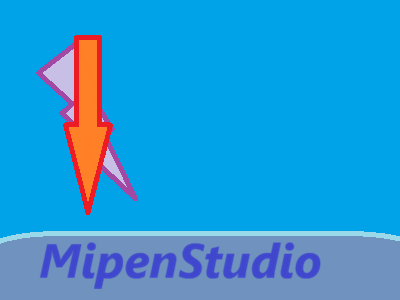
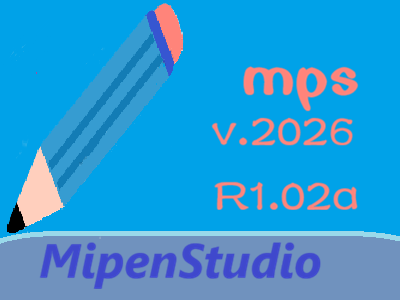
更新界面标题和固件版本，调整主循环次数，修改设备信息格式

Changed region(s): [[0.0, 0.0, 0.48, 0.78], [0.51, 0.21, 0.9, 0.51], [0.54, 0.6, 0.9, 0.72]]

diff --git a/main.py b/main.py
@@ -14,7 +14,7 @@ screen = pygame.display.set_mode((400, 300), pygame.NOFRAME)
 
 screen.blit(pygame.image.load(r'.\datas\mb.png'), (0, 0))
 # 主循环
-for i in range(10000):
+for i in range(15000):
     for event in pygame.event.get():
         if event.type == pygame.QUIT:
             running = False
@@ -52,7 +52,7 @@ def openFile():
 class XiaomiFirmwareEditor:
     def __init__(self, root):
         self.root = root
-        self.root.title("MipenStudio Bata 0.1")
+        self.root.title("MipenStudio v.2026R1.02a")
         self.root.geometry("1200x800")
         
         # 模拟固件数据 (1MB)
@@ -81,8 +81,7 @@ class XiaomiFirmwareEditor:
         self.a = random.choice(names)
         data[0:4] = self.a.encode('utf-8')
         
-        # 版本信息
-        data[16:32] = b'birelaod PowerWriter v2.3.1'
+        data[16:32] = b'RecoveryMode\'s boot v2.3.1'
         
         # 添加一些字符串
         strings = [
@@ -265,12 +264,10 @@ class XiaomiFirmwareEditor:
 型号: {self.a}
 序列号: PW-{random.randint(2020,2025)}-{random.randint(1000,8720)}
 固件版本: v0.0.1
-硬件版本: -无信息-
+硬件版本: {random.randint(2020,2025)}
 生产日期: 2025-06-15
 电池容量: {str(random.randint(9, 12)) + '0'}mAh
 连接协议: BLE 3.0
-支持功能:
-  -无信息-
 """
         
         device_info = scrolledtext.ScrolledText(
@@ -570,7 +567,7 @@ class XiaomiFirmwareEditor:
     
     def about(self):
         about_text = """
-MipenStudio v0.2b
+MipenStudio v.2026R1.02a
 
 用于编辑巨能写智能笔的固件文件。
 支持16进制查看和编辑，固件读取和写入功能。